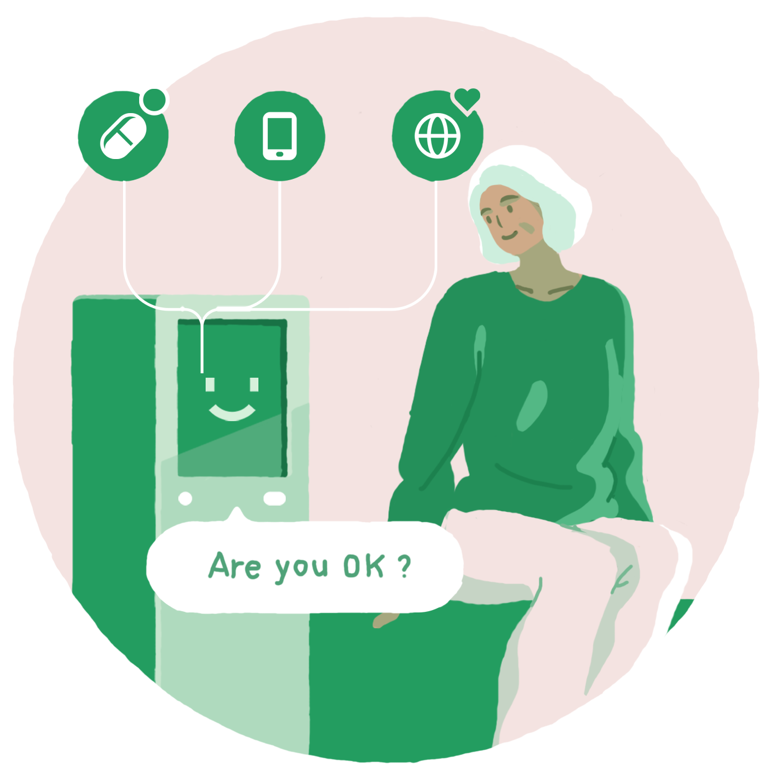
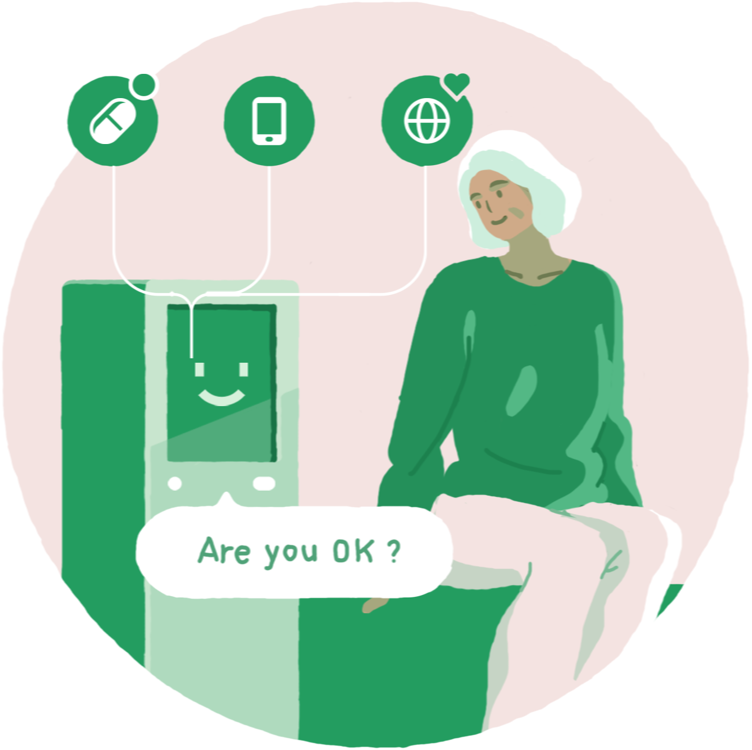
responsive!

diff --git a/css/main.css b/css/main.css
@@ -30,6 +30,9 @@ h3 { font-size:1.6rem; font-family: 'Karla', sans-serif;}
 
 p {font-size:1.6rem;line-height: 1.8;color: #75889a;}
 a {color: #113561;}
+a:hover {color: #106CD6;}
+
+
 
 
 /* General
@@ -39,26 +42,35 @@ body{
 	width: 90%;
 	margin: 0 auto;
 	background-color: #F5FAF9;
-
 }
-
 input[type="email"]{
 	border:0px;
 	font-size:1.6rem;
 	font-family: 'Karla';
 	padding: 11px 24px;
-	margin-right: 16px;
-	border:1px solid rgba(60,60,0,0.05);
-	border-radius: 2px;
+	margin-right: 8px;
+	border:1px solid rgba(60,60,0,0.1);
+	border-radius: 4px;
 }
 input[type="button"]{
-	background-color: #3A96FF;
-	border:0px;
-	padding: 12px 24px;
+	background-color: #217ee8;
+	border:1px solid #106CD6;
+	padding: 11px 24px;
 	color: white;
 	font-size:1.6rem;
 	font-family: 'Karla';
-	border-radius: 2px;
+	border-radius: 4px;
+	cursor: pointer;
+}
+input[type="button"]:hover{
+	background-color: #268bff;
+}
+input[type="button"]:focus{
+	background-color: #106CD6;
+}
+a, input{
+	-webkit-transition: width 0.2s, height 0.2s, top 0.2s, left 0.2s, bottom 0.2s, right 0.2s, opacity 0.2s, background 0.2s, color 0.2s, display 0.2s, border-bottom 0.2s, padding-top 0.2s, padding-bottom 0.2s,margin-top 0.2s,margin-bottom 0.2s;
+	transition: width 0.2s, height 0.2s, top 0.2s, left 0.2s, bottom 0.2s, right 0.2s, opacity 0.2s, background 0.2s, color 0.2s, display 0.2s, border-bottom 0.2s, padding-top 0.2s, padding-bottom 0.2s,margin-top 0.2s,margin-bottom 0.2s;
 }
 
 /* Nav and header
@@ -92,14 +104,14 @@ header form{
 	position: relative;
 	top: -128px;
 	width: 48%;
-	max-width: 600px;
+	max-width: 700px;
 }
 #l2wrap{
 	float: left;
 	position: relative;
-	top: 72px;
+	top: 48px;
 	width: 36%;
-	max-width: 440px;
+	max-width: 500px;
 }
 .navLinks a:first-child{
 	margin-right: 16px;
@@ -107,7 +119,7 @@ header form{
 
 nav{
 	border-bottom: 1px solid rgba(235,235,255,1);
-	height: 48px;
+	height: 56px;
 	display: flex;
 	align-items: center;
 	justify-content: space-between;
@@ -118,10 +130,10 @@ nav{
 –––––––––––––––––––––––––––––––––––––––––––––––––– */
 section{
 	background-color: white;
-	padding-top: 24px;
-	padding-bottom: 24px;
+	padding: 24px 64px;
 	margin-top: 128px;
-	box-shadow: 8px 8px 60px rgba(196,212,229,0.2)
+	box-shadow: 8px 8px 60px rgba(196,212,229,0.2);
+	border-radius: 16px;
 }
 section:first-child{
 	margin-top: 0px;
@@ -144,22 +156,11 @@ main h3{
 	text-align: center;
 	margin-bottom: 40px;
 }
-
 article{
 	display: flex;
-	margin: 40px 0;
 	width: 100%;
 	justify-content: space-between;
 	margin: 80px auto;
-	/*background-color: red;*/
-}
-.benefits-medium{
-	border-radius: 16px 0px 0px 16px;
-	margin-right: -10%;
-}
-.benefits-small{
-	margin-left: -10%;
-	border-radius: 0px 16px 16px 0px;
 }
 
 
@@ -197,11 +198,177 @@ article.right-text{
 
 /* Footer
 –––––––––––––––––––––––––––––––––––––––––––––––––– */
-footer img{
-	width: 64px;
-}
-
-
 footer{
-	margin-top: 120px;
+	margin-top: 128px;
+	margin-bottom: 64px;
 }
+
+footer .cta{
+	padding-top: 96px;
+	padding-bottom: 128px;
+	box-shadow: 8px 8px 60px rgba(196,212,229,1);
+	background-color: #3A7BFF;
+	text-align:center;
+	border-radius: 16px;
+}
+footer .cta p, footer .cta h1{
+	color: white;
+	letter-spacing: 1px;
+}
+footer form{
+	margin-top: 16px;
+}
+
+footer input[type="button"]{
+	background-color: #022567;
+}
+footer input[type="button"]:hover{
+	background-color: #042C79;
+}
+footer input[type="button"]:focus{
+	background-color: #001E57;
+}
+
+footer .illustration-footer{
+	background-color: white;
+	/* width: 80%; */
+	margin: 0 auto;
+	z-index: 10;
+	padding: 48px;
+	box-shadow: 8px 8px 60px rgba(56,66,76,0.15);
+	border-radius: 16px;
+	position: relative;
+	top: -48px;
+	display: flex;
+	justify-content: space-between;
+}
+footer .persona{
+	display: flex;
+	flex-direction: row;
+	align-items: center;
+}
+footer .persona img{
+	width: 96px;
+	margin-right: 24px;
+}
+
+
+/* Responsive
+–––––––––––––––––––––––––––––––––––––––––––––––––– */
+
+/* mobile */
+@media (max-width: 660px) {
+	h1{
+		text-align: center;
+		font-size: 3.1rem;
+		line-height: 1.2;
+		margin-right: 0;
+		margin-bottom: 16px;
+	}
+	footer h1{max-width: 460px;}
+	header form{text-align: center;}
+	header input[type="button"]{width: 320px; margin-top: 8px;}
+	header input[type="email"]{width: 270px;}
+	input[type="email"]::placeholder{text-align: center;}
+
+	h2{
+		font-size: 1.8rem;
+		text-align: center;
+	}
+	p{
+		font-size: 1.5rem;
+		line-height: 1.5;
+		text-align: center;
+	}
+	section{
+		padding: 2px 20px;
+		border-radius: 8px;
+		margin-top: 24px;
+	}
+	article.left-text, article.right-text{
+		flex-direction: column;
+		align-items: center;
+	}
+
+	#l1wrap{
+		top: 16px;
+		right: -10%;
+		width: 56%;
+	}
+	#l2wrap{
+		top: 16px;
+		left: -10%;
+		width: 44%;
+	}
+
+
+	.illustration-medium,.illustration-small{
+		width: 80%;
+		margin-top: 24px;
+		margin-bottom: 24px;
+	}
+
+	footer{
+		margin-top: 24px;
+		margin-bottom: 0;
+	}
+	footer .cta{
+		border-radius: 8px;
+		padding: 48px 20px 88px 20px;
+	}
+	footer .illustration-footer{
+		top: -64px;
+		flex-direction: column;
+		width: 80%;
+		padding: 24px;
+	}
+	footer input[type="email"]{
+		width: calc(100% - 51px);
+	}
+	footer input[type="button"]{
+		width: 100%;
+		margin-top: 8px;
+	}
+}
+
+/* tablets */
+@media (max-width: 1200px ) and (min-width: 661px)  {
+	header h1{
+		font-size: 3.4rem;
+		max-width: 400px;
+	}
+	h2{font-size: 1.8rem;}
+	p{
+		font-size: 1.5rem;
+		line-height: 1.5;
+	}
+	.illustration-medium{
+		width: 36%;
+	}
+	.right-text .explainer{
+		margin-left: 32px;
+	}
+	.left-text .explainer{
+		margin-right: 32px;
+	}
+}
+
+
+/* hella wiiiiiide */
+@media (min-width: 1600px) {
+	h1{font-size: 4.2rem;}
+	#l1wrap{
+		top: -128px;
+		right: -72px;
+		width: 60%;
+		max-width: 700px;
+	}
+	#l2wrap{
+		top: 48px;
+		left: -136px;
+		width: 44%;
+		max-width: 500px;
+	}
+}
+
+

diff --git a/index.html b/index.html
@@ -19,7 +19,7 @@
 		<h1>Evoke brings the future to elder care</h1>
 		<form action="">
 			<input type="email" placeholder="Enter your email">
-			<input type="button" value="subscribe">
+			<input type="button" value="Subscribe">
 		</form>
 		<div class="illustration-large">
 			<div id="l1wrap"><img src="img/large1.png" id="l1"	alt=""></div>
@@ -82,18 +82,23 @@
 		</section>
 
 		<footer>
-			<img src="img/tiny1.png" alt="">
-			<img src="img/tiny2.png" alt="">
 			<div class="cta">
-				<h2>Want to To Try Out Evoke?</h2>
+				<h1>Want to To Try Out Evoke?</h1>
 				<p>We’ll keep you in the loop.</p>
 				<form action="">
-					<input type="email">
-					<input type="button" value="subscribe">
+					<input type="email" placeholder="Enter your email">
+					<input type="button" value="Subscribe">
 				</form>
 			</div>
 			<div class="illustration-footer">
-				<img src="img/placeholder.png" alt="">
+				<div class="persona">
+					<div><img src="img/tiny1.png" alt=""></div>
+					<h2>Happy and independent</h2>
+				</div>
+				<div class="persona">
+					<div><img src="img/tiny2.png" alt=""></div>
+					<h2>Saving money and worry</h2>
+				</div>
 			</div>
 		</footer>
 
